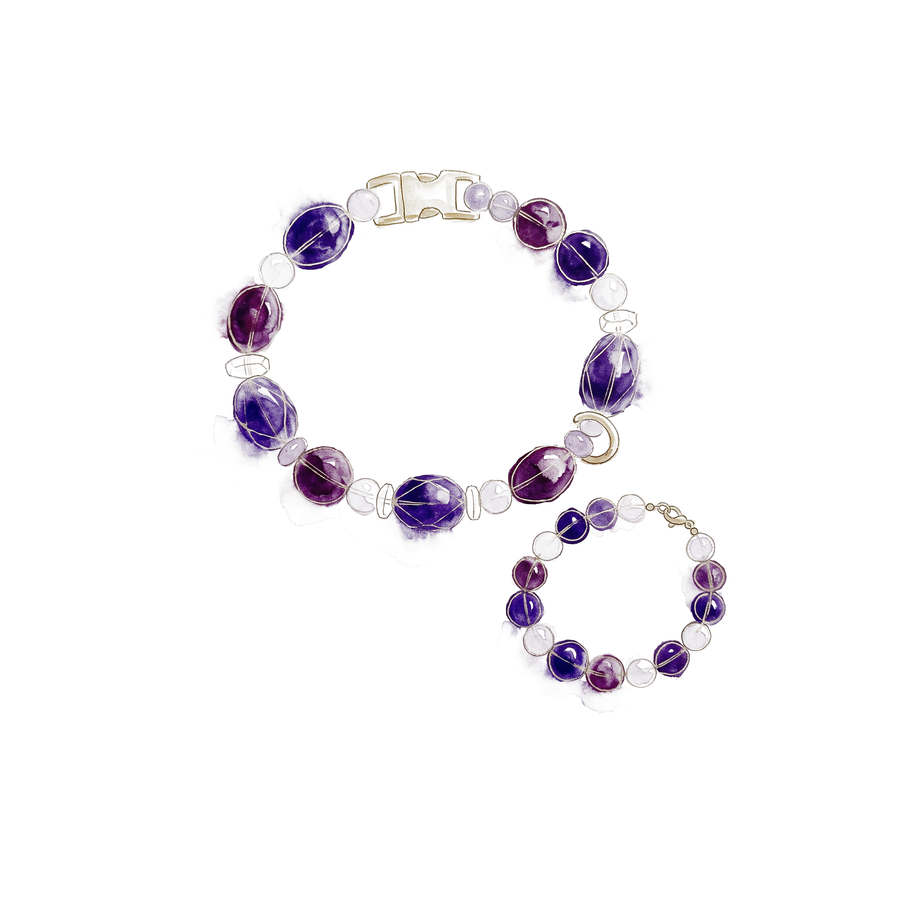
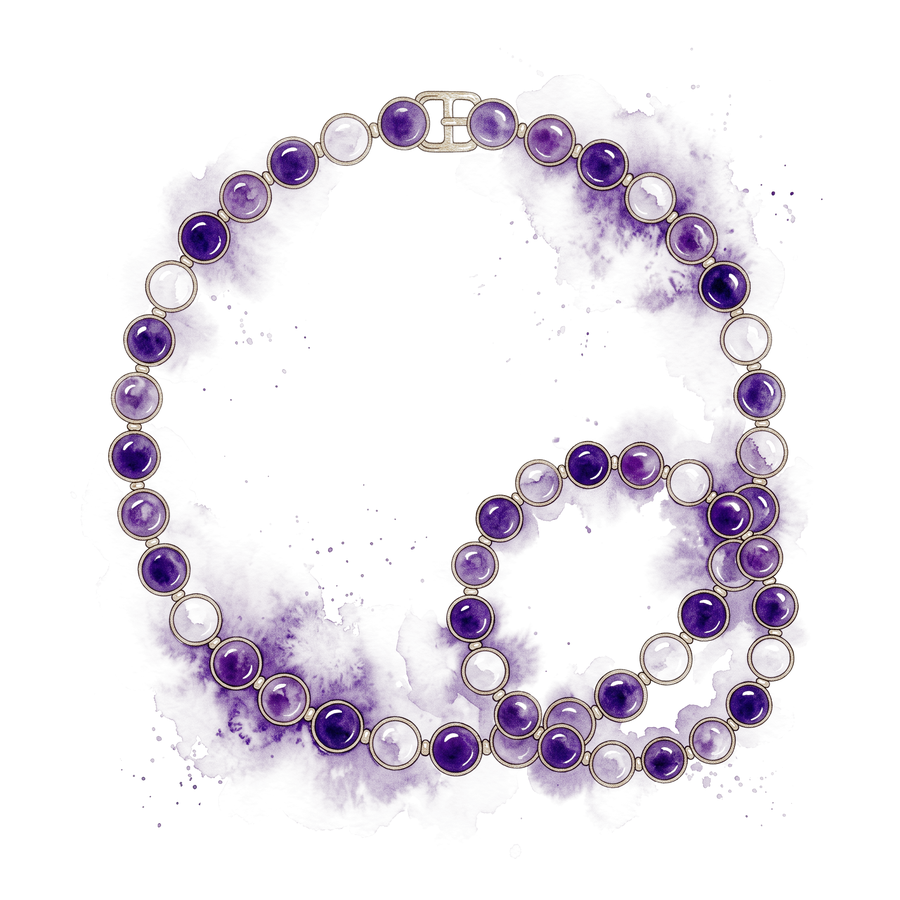
Rewrite the stone copy as portraits, redraw amethyst to match the set
- Each stone card now leads with who it is for — "For the worrier", "For the
  brave one" — a pet the reader recognises, instead of mineral trivia. Still
  no effect claims: what a stone is carried FOR is a fact about people.
- The section gets a way out: a single Find yours CTA into the collection.
  The cards stay unlinked; stone names do not map onto design names.
- Amethyst redrawn: it was chunky nuggets at half scale (6.3% ink coverage
  vs the set's 13-15%) with no wash. Now round beads, 20.8%, violet bloom.
- scripts/lift-artwork.py: the paper-lifting tool moves into the repo. It
  kept living in a session scratchpad and kept vanishing.

Changed region(s): [[0.1244, 0.0933, 0.9022, 0.9022]]

diff --git a/src/lib/stoneStudies.ts b/src/lib/stoneStudies.ts
@@ -1,20 +1,27 @@
 /**
- * The painted stone index — the stones we string, and what each is kept for.
+ * The painted stone index — the stones we string, and who each one is for.
  *
- * Two rules govern the copy here, and they pull against each other.
+ * These lines have one job: to make a reader stop on one card and think
+ * "that's mine". Not to teach mineralogy. An earlier draft opened with things
+ * like "the Greek name means 'not drunken'", which is true, dry, and sells
+ * nothing — a museum label where a portrait was wanted.
  *
- * A buyer choosing a stone wants to know what it is *for*; a page that only
- * names colours is no help. But this site states plainly, on /about, that there
- * is no evidence crystals heal animals. So every line below is written as
- * tradition or as the owner's intention — what people have long kept a stone
- * for — and never as an effect the stone has on an animal or a person. "Long
- * carried for courage" is a fact about people. "Calms an anxious dog" is a
- * claim about a dog, and does not appear here.
+ * So each entry leads with a person and an animal a buyer can recognise, and
+ * only then gives the colour and the tradition. Recognition is what sells a
+ * keepsake; nobody buys a bracelet because of etymology.
  *
- * The same rule already governs src/lib/birthStory.ts and src/lib/everyday.ts.
- * Note that src/lib/products.ts does NOT yet follow it — its `petBenefit`
- * fields still assert effects ("Soothes separation anxiety") and are live on
- * the product pages. That inconsistency is known and unresolved.
+ * The compliance rule is unchanged and is not the reason the old copy was
+ * flat. /about states plainly that there is no evidence crystals heal animals,
+ * so nothing here may claim an effect on an animal or a person. What IS
+ * allowed, and is where all the warmth lives: what people have long carried a
+ * stone FOR, and who the owner is choosing it for. "Carried for courage — for
+ * the small dog who has never once considered that they are small" makes no
+ * claim about the dog and still lands.
+ *
+ * Same rule as src/lib/birthStory.ts and src/lib/everyday.ts. Note that
+ * src/lib/products.ts does NOT follow it — its `petBenefit` fields still
+ * assert effects ("Soothes separation anxiety") and are live on the product
+ * pages. Known, unresolved.
  *
  * Art: `/art/stone-<slug>.png`, transparent PNGs lifted off their paper.
  */
@@ -22,9 +29,9 @@ export interface StoneStudy {
   /** Matches `/art/stone-<slug>.png`. */
   slug: string;
   name: string;
-  /** Two or three words. What it is traditionally kept for. */
-  keptFor: string;
-  /** Colour first — it is what the picture shows — then the tradition. */
+  /** The hook. Who is this for — a person or an animal you can picture. */
+  forWhom: string;
+  /** Colour first, because that is what the picture shows. Then the reason. */
   note: string;
 }
 
@@ -32,67 +39,67 @@ export const stoneStudies: StoneStudy[] = [
   {
     slug: "amethyst",
     name: "Amethyst",
-    keptFor: "A clear head",
-    note: "Deep royal violet. The Greek name means “not drunken” — it has been worn against muddled thinking for a very long time.",
+    forWhom: "For the worrier",
+    note: "Deep violet, cut rough and left that way. The stone people have always reached for when their head gets loud — and for the one who waits by the door until the key turns.",
   },
   {
     slug: "rose-quartz",
     name: "Rose Quartz",
-    keptFor: "Affection",
-    note: "Warm rose pink. The stone traditionally given to mark a bond — to a new companion, or to one you have had for years.",
+    forWhom: "For the great love of your life",
+    note: "Milky pink, warm as the inside of a shell. The stone that has always meant affection. The obvious one for the animal you talk to more than you talk to most people.",
   },
   {
     slug: "aquamarine",
     name: "Aquamarine",
-    keptFor: "Safe passage",
-    note: "Sea blue-green. Sailors carried it for calm water; owners tend to choose it for the one who travels badly.",
+    forWhom: "For the one who comes along",
+    note: "Sea blue-green, clear as shallow water. Sailors carried it for calm passage. Now it goes in the car, to the vet, to the new flat — wherever the two of you are going next.",
   },
   {
     slug: "labradorite",
     name: "Labradorite",
-    keptFor: "Change",
-    note: "Storm grey with a peacock flash. Long associated with thresholds — a move, a new house, a season turning.",
+    forWhom: "For a new chapter",
+    note: "Storm grey until the light catches it, then a flash of peacock blue. Long worn at thresholds — a move, a rescue's first week home, the season that changed everything.",
   },
   {
     slug: "citrine",
     name: "Citrine",
-    keptFor: "Good fortune",
-    note: "Golden yellow and honey. Known for centuries as the merchant’s stone, kept for abundance.",
+    forWhom: "For the lucky one",
+    note: "Golden yellow, warm as honey held up to a window. Known for centuries as the merchant's stone, kept for good fortune. For the one who somehow always lands on their feet.",
   },
   {
     slug: "tigers-eye",
-    name: "Tiger’s Eye",
-    keptFor: "Nerve",
-    note: "Banded amber and bronze, with a stripe of light down each bead. Carried as a stone of courage.",
+    name: "Tiger's Eye",
+    forWhom: "For the brave one",
+    note: "Banded amber and bronze, with a stripe of light that moves as you turn it. Carried for courage — for the small dog who has never once considered that they are small.",
   },
   {
     slug: "clear-quartz",
     name: "Clear Quartz",
-    keptFor: "Whatever you decide",
-    note: "Glassy and colourless. The blank stone — traditionally used to hold whatever meaning its owner gives it, which is why it is often the first one people choose.",
+    forWhom: "For whatever you decide",
+    note: "Glassy, colourless and completely yours. The blank stone: it means what you choose it to mean, which is why it is the one most people pick first.",
   },
   {
     slug: "red-agate",
     name: "Red Agate",
-    keptFor: "Steadiness",
-    note: "Deep carnelian and garnet. Set into amulets and armour for as long as there have been either.",
+    forWhom: "For the one who fears nothing",
+    note: "Deep carnelian, going dark as wine at the edges. Set into amulets and armour for as long as there have been either. For the one who has never needed reassuring.",
   },
   {
     slug: "smoky-quartz",
     name: "Smoky Quartz",
-    keptFor: "Getting through it",
-    note: "Warm smoky brown. Kept close through unsettled stretches — the stone people reach for in a hard month.",
+    forWhom: "For getting through it",
+    note: "Warm smoky brown, like afternoon light through tea. The stone people keep close in a hard month — for the pair of you who have already come through worse than this.",
   },
   {
     slug: "lepidolite",
     name: "Lepidolite",
-    keptFor: "Quiet",
-    note: "Lilac and violet-pink, mottled. Long chosen as a stone of calm — as an intention set, never as a treatment given.",
+    forWhom: "For the quiet one",
+    note: "Lilac and violet-pink, mottled like a petal past its best. Long chosen as a stone of calm. For the cat who watches from the top of the wardrobe and comes down on her own terms.",
   },
   {
     slug: "rainbow",
     name: "Rainbow",
-    keptFor: "Not choosing",
-    note: "One bead of each, strung in order. For when no single stone says it, or when the whole point is that they are all yours.",
+    forWhom: "For refusing to choose",
+    note: "One bead of each, strung in order. For when no single stone says it — or when the whole point is that every one of them is yours.",
   },
 ];

diff --git a/src/components/StoneStudies.tsx b/src/components/StoneStudies.tsx
@@ -6,18 +6,18 @@ import Reveal from "@/components/Reveal";
 /**
  * The painted stone index.
  *
- * A quiet, non-commercial beat between the positioning statement and the
- * styling gallery: the stones themselves, painted, with what each is
- * traditionally kept for. Nothing here links to a listing — a buyer who wants
- * to shop is one scroll away, and making these tiles clickable would turn an
- * index into a second, competing grid of products.
+ * This is where the choosing happens. The section above asks the reader to
+ * pick a stone; this answers it, in pictures, before a price is on screen.
  *
- * The studies are transparent PNGs, so no tile, border or card is drawn behind
- * them. A frame would fight the bleeding edges, which are the point.
+ * Two things it deliberately does NOT do. The cards do not link to listings —
+ * the stone names do not map one-to-one onto design names, so eleven links
+ * would send people somewhere they did not ask to go. And there is no price
+ * here. Instead the section ends with a single route into the collection,
+ * which is the one thing an interested reader needs and the earlier draft
+ * left out entirely: it was a dead end.
  *
- * The copy leads with the collar because that is what this shop mainly sells;
- * pairing is offered on most designs but is not the default, and the earlier
- * draft of this section wrongly said every stone came as two pieces.
+ * The studies are transparent PNGs, so nothing is drawn behind them. A tile or
+ * border would fight the bleeding edges, which are the point.
  */
 export default function StoneStudies() {
   return (
@@ -26,13 +26,13 @@ export default function StoneStudies() {
         <div className="mx-auto max-w-2xl text-center">
           <p className="eyebrow text-gold-deep">The stones</p>
           <h2 className="mt-4 font-serif text-3xl leading-snug text-ink sm:text-4xl">
-            What each stone is kept for
+            Start with the one that sounds like them
           </h2>
           <p className="mt-5 leading-relaxed text-ink-light">
-            Most of what we make is for the animal — a collar strung with one
-            stone. Many designs can be paired with a piece for you, and a few
-            are sold only as a set. Whichever way you buy it, this is the stone
-            you are choosing between.
+            Most of what we make is for the animal — a collar, strung with one
+            stone. Most designs can be paired with a piece for you, and a few
+            are sold only as a set. Either way this is the decision that
+            matters; the rest is leather and length.
           </p>
         </div>
 
@@ -51,8 +51,8 @@ export default function StoneStudies() {
                   className="h-auto w-full"
                 />
                 <p className="eyebrow mt-1 text-[0.66rem] text-ink">{s.name}</p>
-                <p className="eyebrow mt-2 text-[0.55rem] text-gold-deep">
-                  {s.keptFor}
+                <p className="mt-2 font-serif text-[0.95rem] leading-snug text-gold-deep">
+                  {s.forWhom}
                 </p>
                 <p className="mt-2.5 text-sm leading-relaxed text-ink-light">
                   {s.note}
@@ -62,18 +62,18 @@ export default function StoneStudies() {
           ))}
         </ul>
 
-        <p className="mx-auto mt-14 max-w-xl text-center text-xs leading-relaxed text-ink/50">
-          What a stone is “kept for” is tradition, not medicine — nothing here
-          treats anything, in an animal or in you. These are studio
-          illustrations too: natural stone varies bead to bead, so the set that
-          arrives will be its own colour, closer to the photography on each{" "}
-          <Link
-            href="/#collection"
-            className="underline underline-offset-2 hover:text-ink"
-          >
-            design page
+        <div className="mt-16 text-center">
+          <Link href="/#collection" className="btn-solid action">
+            <span>Find yours</span>
           </Link>
-          .
+        </div>
+
+        <p className="mx-auto mt-10 max-w-xl text-center text-xs leading-relaxed text-ink/50">
+          What a stone is carried “for” is tradition, not medicine — nothing
+          here treats anything, in an animal or in you. These are studio
+          illustrations too: natural stone varies bead to bead, so the set that
+          arrives will be its own colour, closer to the photography on each
+          design page.
         </p>
       </div>
     </section>

diff --git a/scripts/lift-artwork.py b/scripts/lift-artwork.py
@@ -1,0 +1,133 @@
+#!/usr/bin/env python3
+"""Lift a watercolour illustration off its paper into a transparent PNG.
+
+Every illustration on this site ships as RGBA with its paper removed, so it
+sits on whatever ground the section behind it uses. Generated artwork always
+arrives on a baked-in sheet, and even a near-match reads as a pasted-in tile:
+the hero's paper was #FBF9F0 against the page's #FBF9F6 and showed as an
+obvious rectangle.
+
+    python3 scripts/lift-artwork.py in.png out.png [more pairs...]
+
+HOW IT WORKS
+
+A threshold cutout would hack the soft washes off at a hard edge, which is the
+one thing watercolour cannot survive. Instead the paper is treated as a known
+backdrop the paint was laid over and the compositing is undone: how far a pixel
+sits below the paper gives its alpha, and the pigment is recovered by dividing
+that coverage back out.
+
+Three details decide whether the result blends or looks wrong:
+
+* The paper is modelled PER PIXEL, not as one colour. Generated paper carries a
+  vignette, so a single estimate leaves the darker centre with residual alpha —
+  a faint veil that reads as a visible rectangle.
+* The pedestal is a GATE, not a scale. Rescaling alpha by (a-ped)/(1-ped) shaves
+  coverage off full-strength pigment too, and since pigment is recovered by
+  dividing coverage back out, the ink returns lighter. Measured on the hero:
+  darkest ink went 72.8 -> 87.5 out of 255. Gating instead keeps it at 73.7.
+* NO blur on the alpha. Harmless on a soft wash, destructive on 1px ink
+  linework — a 0.6px Gaussian thinned that same ink to 84.5. The soft knee
+  already gives the gate a shoulder.
+
+FOR VIDEO, alpha is not a real option: ffmpeg's libvpx-vp9 advertises yuva420p
+and silently writes no alpha stream, and HEVC-with-alpha is Safari-only at ~4x
+the bytes. Lift every frame, then composite back onto the page's exact
+background colour before encoding. Compute the paper model ONCE from frame 0
+and share it — a per-frame model breathes with the wash and the flat ground
+shimmers over a hold.
+"""
+import sys
+
+import numpy as np
+from PIL import Image, ImageFilter
+
+FLOOR = 6 / 255.0
+PEDESTAL = 0.055  # coverage at or below this is bare paper, not pigment
+KNEE = 0.03       # width of the gate's shoulder
+PAGE_CREAM = (0xFB, 0xF9, 0xF6)  # --color-cream
+
+
+def paper_model(a):
+    """Per-pixel estimate of the untouched sheet, vignette included.
+
+    A wide maximum filter reaches past the painted area to the brightest nearby
+    paper, then a heavy blur turns that into a smooth field.
+    """
+    width = a.shape[1]
+    lum = Image.fromarray(a.max(axis=2).astype(np.uint8), "L")
+    lum = lum.filter(ImageFilter.MaxFilter(9))
+    lum = lum.filter(ImageFilter.GaussianBlur(width * 0.18))
+    field = np.asarray(lum, np.float32)
+
+    # keep the paper's colour cast, carried by the border ratio
+    edge = np.concatenate([
+        a[:12].reshape(-1, 3), a[-12:].reshape(-1, 3),
+        a[:, :12].reshape(-1, 3), a[:, -12:].reshape(-1, 3),
+    ])
+    tint = np.percentile(edge, 80, axis=0)
+    tint = tint / max(tint.max(), 1.0)
+    return np.maximum(field[..., None] * tint, 1.0)
+
+
+def lift(a, paper, pedestal=PEDESTAL, knee=KNEE):
+    """RGB float array + paper model -> RGBA uint8 array."""
+    raw = 1.0 - np.clip(a / paper, 0.0, 1.0).min(axis=2)
+    alpha = raw * np.clip((raw - pedestal) / knee, 0.0, 1.0)
+    safe = np.maximum(alpha, FLOOR)[..., None]
+    pigment = np.clip((a - paper * (1.0 - alpha)[..., None]) / safe, 0, 255)
+    pigment[alpha < FLOOR] = 0
+    return np.dstack([pigment, alpha * 255.0]).astype(np.uint8)
+
+
+def veil(rgba, ground=PAGE_CREAM):
+    """Largest deviation the empty corners introduce over the page colour.
+
+    The acceptance test. Anything above ~1/255 will read as a rectangle.
+    """
+    a = rgba.astype(np.float32)
+    al = a[..., 3:4] / 255.0
+    comp = a[..., :3] * al + np.array(ground, np.float32) * (1 - al)
+    h, w = comp.shape[:2]
+    k = int(min(h, w) * 0.08)
+    corners = np.concatenate([
+        comp[:k, :k].reshape(-1, 3), comp[:k, -k:].reshape(-1, 3),
+        comp[-k:, :k].reshape(-1, 3), comp[-k:, -k:].reshape(-1, 3),
+    ])
+    return float(np.abs(corners - np.array(ground, np.float32)).max())
+
+
+def lift_file(src, dst, ground=PAGE_CREAM):
+    """Lift one file, raising the pedestal until the corners are truly bare."""
+    a = np.asarray(Image.open(src).convert("RGB"), np.float32)
+    paper = paper_model(a)
+    for pedestal in (0.055, 0.075, 0.095, 0.12, 0.15):
+        out = lift(a, paper, pedestal)
+        v = veil(out, ground)
+        if v <= 1.0:
+            break
+    Image.fromarray(out, "RGBA").save(dst)
+    return pedestal, v
+
+
+def square(path, size, margin=1.10):
+    """Trim to the paint, then centre it on a transparent square canvas.
+
+    Grids of these need a consistent frame; the raw generations vary wildly in
+    how much empty paper surrounds the subject.
+    """
+    im = Image.open(path).convert("RGBA")
+    im = im.crop(im.getbbox())
+    side = int(max(im.size) * margin)
+    canvas = Image.new("RGBA", (side, side), (0, 0, 0, 0))
+    canvas.paste(im, ((side - im.width) // 2, (side - im.height) // 2), im)
+    canvas.resize((size, size), Image.LANCZOS).save(path)
+
+
+if __name__ == "__main__":
+    args = sys.argv[1:]
+    if len(args) < 2 or len(args) % 2:
+        sys.exit("usage: lift-artwork.py in.png out.png [in2.png out2.png ...]")
+    for src, dst in zip(args[::2], args[1::2]):
+        pedestal, v = lift_file(src, dst)
+        print(f"{dst}  pedestal {pedestal:.3f}  corner deviation {v:.2f}/255")
